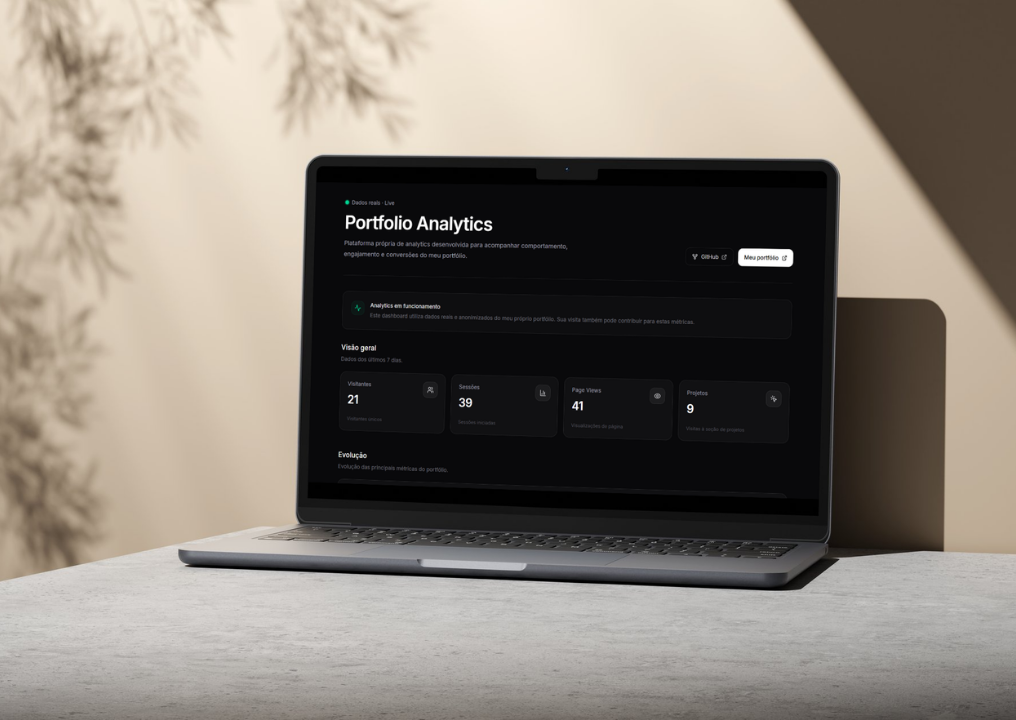
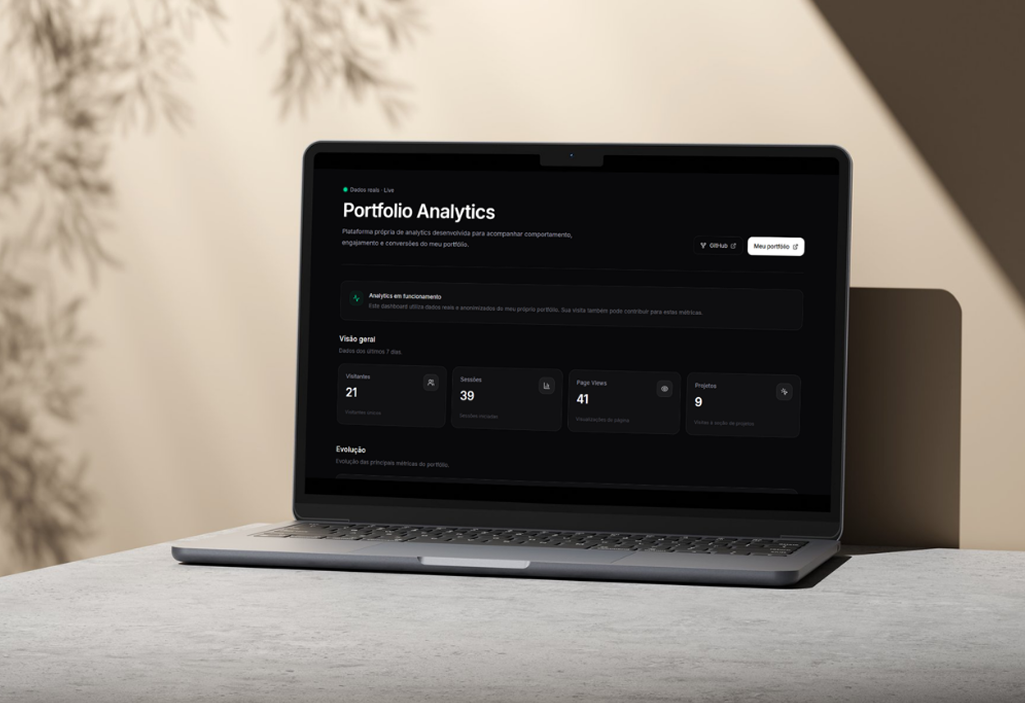
fix: adjust image portfolio analytics

diff --git a/README.md b/README.md
@@ -31,10 +31,9 @@ I'm also interested in AI integrations and process automation.
 <div align="center">
 
 <a href="https://github.com/matheusconaga/docflow-ai">![Project Card](https://github-project-cards.vercel.app/api/project-card?repo=matheusconaga%2Fdocflow-ai&lang=en&theme=dark&image=https%3A%2F%2Fraw.githubusercontent.com%2Fmatheusconaga%2Fmatheusconaga%2Fmain%2Fassets%2Fdocflow-ai.png&techs=FastAPI%2CPython%2CDocker&showStars=true&showForks=true)</a>
-<a href="https://github.com/matheusconaga/portfolio-analytics">![Project Card](https://github-project-cards.vercel.app/api/project-card?repo=matheusconaga%2Fportfolio-analytics&lang=en&theme=dark&image=https%3A%2F%2Fraw.githubusercontent.com%2Fmatheusconaga%2Fmatheusconaga%2Fmain%2Fassets%2Fportfolio-analytics.png&techs=Node.js%2C+Express%2C+PostgreSQL&showStars=true&showForks=true)</a>
+<a href="https://github.com/matheusconaga/portfolio-analytics">![Project Card](https://github-project-cards.vercel.app/api/project-card?repo=matheusconaga%2Fportfolio-analytics&lang=en&theme=dark&image=https%3A%2F%2Fraw.githubusercontent.com%2Fmatheusconaga%2Fmatheusconaga%2Fmain%2Fassets%2Fanalytics.png&techs=Node.js%2C+Express%2C+PostgreSQL&showStars=true&showForks=true)</a>
 <a href="https://github.com/matheusconaga/projeto_patrimoniario">![Project Card](https://github-project-cards.vercel.app/api/project-card?repo=matheusconaga%2Fprojeto_patrimoniario&lang=en&theme=dark&image=https%3A%2F%2Fraw.githubusercontent.com%2Fmatheusconaga%2Fmatheusconaga%2Fmain%2Fassets%2Fpatrimoniario.png&techs=React%2CTypeScript%2CFirebase&showStars=true&showForks=true)</a>
 <a href="https://github.com/matheusconaga/github-project-cards">![Project Card](https://github-project-cards.vercel.app/api/project-card?repo=matheusconaga%2Fgithub-project-cards&lang=en&theme=dark&image=https%3A%2F%2Fraw.githubusercontent.com%2Fmatheusconaga%2Fgithub-project-cards%2Fmain%2Fpublic%2Fproject-card-deploy.png&techs=Next%2CReact%2CTypescript&showStars=true&showForks=true)</a>
-
 
 </div>
 </details>
